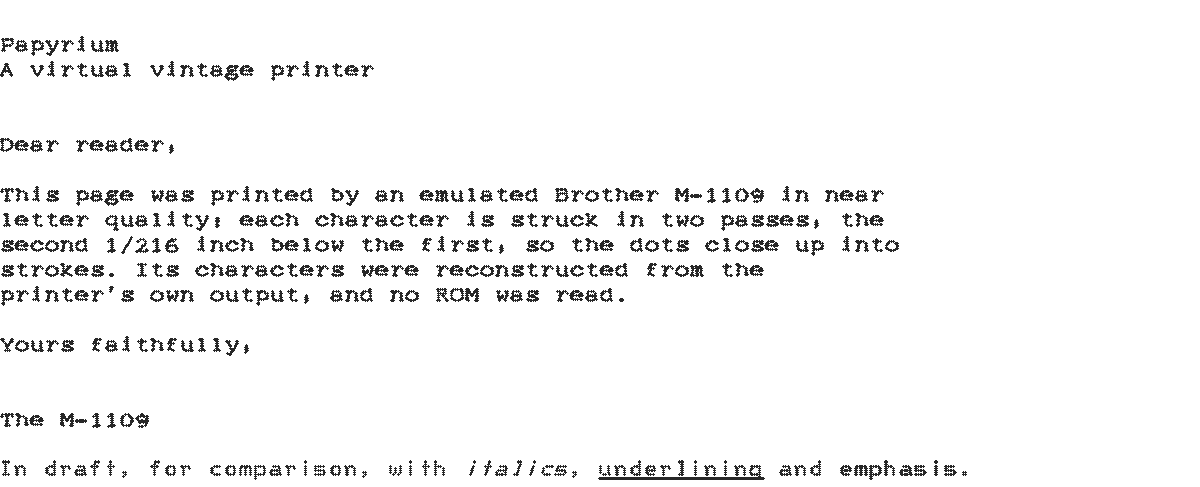
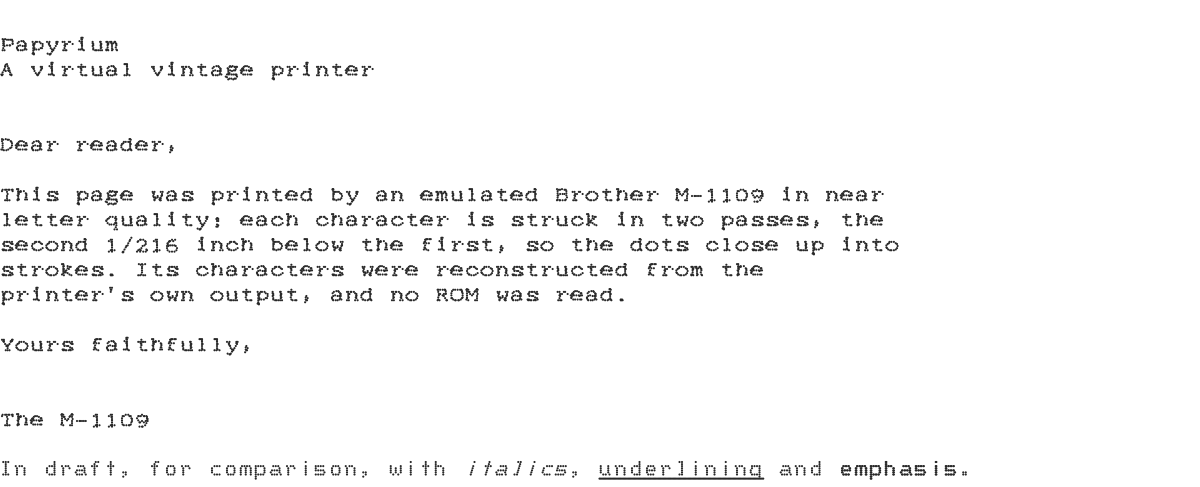
Draw PNG dots antialiased, so small dots stay round
A dot is 1/72 inch, about two pixels at 150 dpi, and Pillow's
unantialiased ellipse turns a disc that small into a plus-shaped cross,
which smeared characters into blobs. Each dot is now stamped with the
share of each pixel it covers, measured on a 16 x 16 grid per pixel,
with its centre placed to an eighth of a pixel; stamps are cached by
size and offset. Overlapping dots darken where they overlap, as ink
does. The golden pages and README samples are regenerated.

diff --git a/packages/papyrium-output-png/tests/test_png.py b/packages/papyrium-output-png/tests/test_png.py
@@ -77,7 +77,47 @@ def test_stationery_is_drawn_in_colour_under_the_dots(tmp_path):
         assert image.mode == "RGB"
         # The first green band runs from 1/2 to 1 inch down; the dot is in it.
         assert image.getpixel((200, 50)) == GREEN_BAND
-        assert image.getpixel((inches(4) * 72 // 4320, 54)) == (0, 0, 0)
+        # The dot, a pixel across centred on a pixel corner, darkens the band.
+        inked = image.getpixel((inches(4) * 72 // 4320, 54))
+        assert all(ink < band for ink, band in zip(inked, GREEN_BAND))
         assert image.getpixel((200, 20)) == (255, 255, 255)
         # A feed hole is centred 1/4 inch in from the edge.
         assert image.getpixel((18, 18)) == HOLE_COLOUR
+
+
+def _ink_area(image, ink=0, paper=255):
+    """The area covered by ink, in pixels, from how dark the image is."""
+    return sum((paper - value) * count for value, count in enumerate(image.histogram())) / (
+        paper - ink
+    )
+
+
+def test_a_small_dot_covers_the_area_of_its_circle(tmp_path):
+    # At 150 dpi a 1/72 inch dot is about 2 pixels across, too small to draw
+    # as whole pixels without it turning into a cross.
+    centre = (inches(1), inches(1) // 2)
+    page = _page((centre,), dot_diameter=inches(1) // 72)
+    with Image.open(_render(tmp_path, page, dpi=150, ink=0, paper=255)) as image:
+        radius = 150 / 72 / 2
+        assert abs(_ink_area(image) - 3.14159 * radius**2) < 0.15
+
+
+def test_a_small_dot_is_round_not_a_cross(tmp_path):
+    # At 144 dpi a unit is 1/30 pixel: this dot is 2 pixels across, centred
+    # on pixel (144, 72). Its diagonal neighbours are partly inked, less
+    # than those beside it.
+    centre = (inches(1) + 15, inches(1) // 2 + 15)
+    page = _page((centre,), dot_diameter=60)
+    with Image.open(_render(tmp_path, page, dpi=144, ink=0, paper=255)) as image:
+        cx, cy = 144, 72
+        across = image.getpixel((cx + 1, cy))
+        diagonal = image.getpixel((cx + 1, cy + 1))
+        assert diagonal < 255
+        assert across < diagonal
+
+
+def test_overlapping_dots_are_darker_where_they_overlap(tmp_path):
+    y = inches(1) // 2
+    page = _page(((inches(1), y), (inches(1) + 12, y)), dot_diameter=60)
+    with Image.open(_render(tmp_path, page, ink=0, paper=255)) as image:
+        assert image.getpixel((361, 180)) == 0

diff --git a/packages/papyrium-output-png/src/papyrium/output/png/__init__.py b/packages/papyrium-output-png/src/papyrium/output/png/__init__.py
@@ -2,6 +2,8 @@
 
 from __future__ import annotations
 
+import math
+from functools import cache
 from pathlib import Path
 
 from PIL import Image, ImageDraw
@@ -13,6 +15,30 @@ from papyrium.core.stationery import Circle
 __version__ = "0.0.0"
 
 __all__ = ["PngOutput"]
+
+#: Dot centres are placed to 1/SUBPIXELS of a pixel.
+SUBPIXELS = 8
+#: Each pixel's coverage by a dot is measured on a SUPERSAMPLE-square grid.
+SUPERSAMPLE = 16
+
+
+@cache
+def _dot_stamp(diameter: float, x_eighths: int, y_eighths: int) -> tuple[Image.Image, int]:
+    """A mask of how much of each pixel a dot covers, and its margin.
+
+    The dot is *diameter* pixels across, centred *x_eighths* and
+    *y_eighths* of a pixel (in SUBPIXELS) right of and below the top-left
+    corner of the stamp's centre pixel, which is *margin* pixels in from
+    the stamp's top-left corner.
+    """
+    margin = math.ceil(diameter / 2) + 1
+    size = 2 * margin + 1
+    radius = diameter / 2 * SUPERSAMPLE
+    cx = (margin + x_eighths / SUBPIXELS) * SUPERSAMPLE
+    cy = (margin + y_eighths / SUBPIXELS) * SUPERSAMPLE
+    large = Image.new("L", (size * SUPERSAMPLE,) * 2, 0)
+    ImageDraw.Draw(large).ellipse((cx - radius, cy - radius, cx + radius, cy + radius), fill=255)
+    return large.reduce(SUPERSAMPLE), margin
 
 
 class _PngDocument(Document):
@@ -81,8 +107,12 @@ class PngOutput(Output):
                 draw.rectangle(
                     (x0, y0, max(x1, x0 + 1) - 1, max(y1, y0 + 1) - 1), fill=feature.colour
                 )
-        radius = page.dot_diameter * scale / 2
+        # Each dot is stamped with the share of each pixel it covers, so a dot
+        # only a pixel or two across stays round.
+        diameter = page.dot_diameter * scale
         for x, y in dict.fromkeys(page.dots):
-            cx, cy = x * scale, y * scale
-            draw.ellipse((cx - radius, cy - radius, cx + radius, cy + radius), fill=ink)
+            column, x_eighths = divmod(round(x * scale * SUBPIXELS), SUBPIXELS)
+            row, y_eighths = divmod(round(y * scale * SUBPIXELS), SUBPIXELS)
+            stamp, margin = _dot_stamp(diameter, x_eighths, y_eighths)
+            image.paste(ink, (column - margin, row - margin), mask=stamp)
         return image
